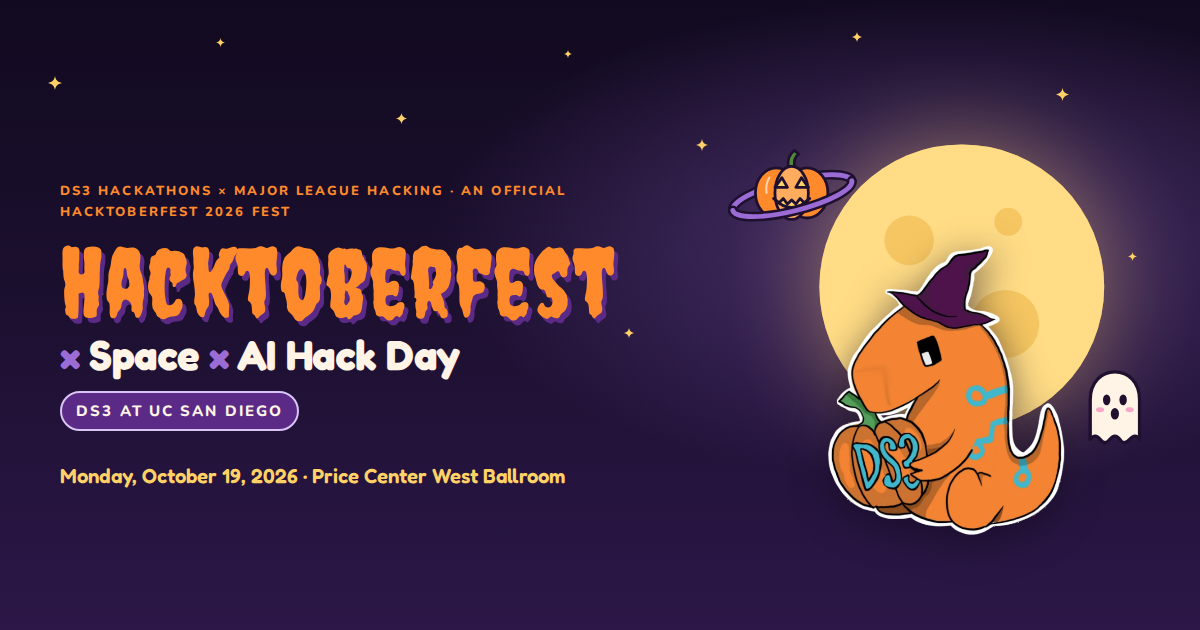
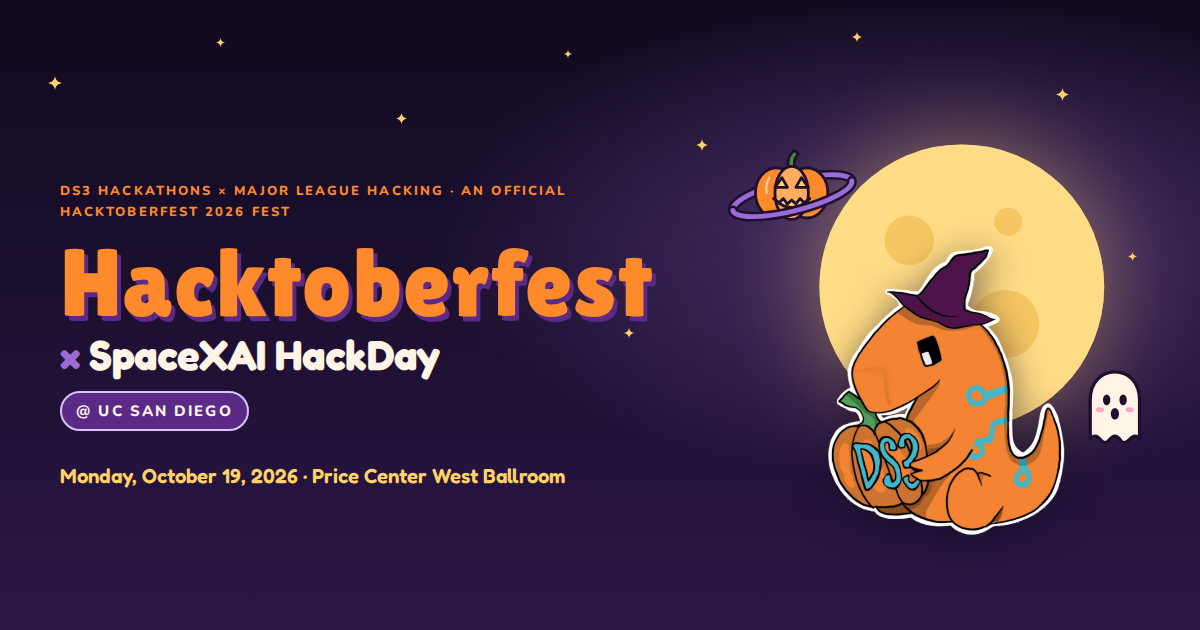
Rename to "Hacktoberfest × SpaceXAI HackDay @ UC San Diego"; swap display font
- EVENT.name / nameHost now read "Hacktoberfest × SpaceXAI HackDay" and
  "@ UC San Diego"; hero, top bar, footer, marquee, about, FAQ, title,
  meta tags, README and design prompts updated to match
- Replace the drippy Creepster display font with Lilita One (chunky,
  rounded) for the wordmark and big headlines
- Regenerate og.png with the new name and font

Claude-Session: https://claude.ai/code/session_019BBGGiAQjhHKrbz4ZVZxox

Changed region(s): [[0.0308, 0.3921, 0.555, 0.5127], [0.0617, 0.5429, 0.4008, 0.6937]]

diff --git a/index.html b/index.html
@@ -3,18 +3,18 @@
   <head>
     <meta charset="UTF-8" />
     <meta name="viewport" content="width=device-width, initial-scale=1.0" />
-    <title>Hacktoberfest × Space × AI Hack Day · DS3 at UC San Diego · Oct 19</title>
+    <title>Hacktoberfest × SpaceXAI HackDay @ UC San Diego · Oct 19</title>
     <meta
       name="description"
-      content="Hacktoberfest × Space × AI Hack Day, DS3 at UC San Diego: a free, one-day open-source AI hackathon and official Hacktoberfest 2026 Fest, brought to you by DS3 Hackathons with Major League Hacking. Monday, October 19, Price Center West Ballroom."
+      content="Hacktoberfest × SpaceXAI HackDay @ UC San Diego: a free, one-day open-source AI hackathon and official Hacktoberfest 2026 Fest, brought to you by DS3 Hackathons with Major League Hacking. Monday, October 19, Price Center West Ballroom."
     />
-    <meta property="og:title" content="Hacktoberfest × Space × AI Hack Day · DS3 at UC San Diego" />
+    <meta property="og:title" content="Hacktoberfest × SpaceXAI HackDay @ UC San Diego" />
     <meta
       property="og:description"
       content="AI belongs to everyone. Build with open-source AI on Oct 19 at the Price Center West Ballroom. Free, register on OrganizerHQ."
     />
     <meta property="og:type" content="website" />
-    <meta property="og:site_name" content="Hacktoberfest × Space × AI Hack Day" />
+    <meta property="og:site_name" content="Hacktoberfest × SpaceXAI HackDay" />
     <meta property="og:url" content="https://mohakprakash.com/hacktoberfest-website/" />
     <link rel="canonical" href="https://mohakprakash.com/hacktoberfest-website/" />
     <meta property="og:image" content="https://mohakprakash.com/hacktoberfest-website/og.png" />
@@ -23,10 +23,10 @@
     <meta property="og:image:height" content="630" />
     <meta
       property="og:image:alt"
-      content="Hacktoberfest × Space × AI Hack Day, DS3 at UC San Diego, on a night-purple sky with a moon and DS3's dino mascot: Monday Oct 19, Price Center West Ballroom"
+      content="Hacktoberfest × SpaceXAI HackDay @ UC San Diego, on a night-purple sky with a moon and DS3's dino mascot: Monday Oct 19, Price Center West Ballroom"
     />
     <meta name="twitter:card" content="summary_large_image" />
-    <meta name="twitter:title" content="Hacktoberfest × Space × AI Hack Day · DS3 at UC San Diego" />
+    <meta name="twitter:title" content="Hacktoberfest × SpaceXAI HackDay @ UC San Diego" />
     <meta name="twitter:image" content="https://mohakprakash.com/hacktoberfest-website/og.png" />
     <meta name="theme-color" content="#1b0f2e" />
     <link rel="icon" href="./favicon.svg" type="image/svg+xml" />
@@ -35,7 +35,7 @@
     <link rel="preconnect" href="https://fonts.gstatic.com" crossorigin />
     <link
       rel="stylesheet"
-      href="https://fonts.googleapis.com/css2?family=Creepster&family=Fredoka:wght@500;600;700&family=Nunito:wght@500;700;800&display=swap"
+      href="https://fonts.googleapis.com/css2?family=Lilita+One&family=Fredoka:wght@500;600;700&family=Nunito:wght@500;700;800&display=swap"
     />
     <style>
       html { scroll-behavior: smooth; }
@@ -48,7 +48,7 @@
   <body>
     <noscript>
       <div style="max-width:40rem;margin:0 auto;padding:48px 16px;font:16px/1.5 system-ui,sans-serif;color:#fff4e6">
-        <h1 style="margin:0 0 12px">Hacktoberfest × Space × AI Hack Day · DS3 at UC San Diego</h1>
+        <h1 style="margin:0 0 12px">Hacktoberfest × SpaceXAI HackDay @ UC San Diego</h1>
         <p>A free, one-day open-source AI hackathon brought to you by DS3 Hackathons with Major League Hacking.
         Monday, October 19, 2026 · Price Center West Ballroom, UC San Diego.</p>
         <p>This page needs JavaScript to show the full schedule and registration details.</p>

diff --git a/src/pop.css b/src/pop.css
@@ -1,5 +1,5 @@
 /* ==========================================================================
-   SPOOKY POP — Halloween theme for Hacktoberfest × Space × AI Hack Day
+   SPOOKY POP — Halloween theme for Hacktoberfest × SpaceXAI HackDay
    Night-purple and pumpkin-orange bands, wax drips between them, rounded
    hand-drawn "sticker" shapes with thick ink outlines to match DS3's dino.
    Every selector is scoped under .pop-root.
@@ -22,7 +22,7 @@
   --ink: #1f1030;
 
   /* type */
-  --display: "Creepster", "Fredoka", cursive;
+  --display: "Lilita One", "Fredoka", sans-serif;
   --round: "Fredoka", "Nunito", ui-rounded, sans-serif;
 
   /* per-band colours; light defaults, dark bands override */

diff --git a/src/sections/Hero.tsx b/src/sections/Hero.tsx
@@ -45,8 +45,7 @@ export default function Hero() {
             <h1 className="pop-hero-type">
               <span className="pop-hero-lg">Hacktoberfest</span>{" "}
               <span className="pop-hero-md">
-                <span className="pop-hero-x">×</span> Space <span className="pop-hero-x">×</span> AI
-                Hack&nbsp;Day
+                <span className="pop-hero-x">×</span> SpaceXAI HackDay
               </span>{" "}
               <span className="pop-hero-host">{EVENT.nameHost}</span>
             </h1>

diff --git a/src/event.ts b/src/event.ts
@@ -5,9 +5,9 @@
 
 export const EVENT = {
   /** The event's full name, as it should read everywhere. */
-  name: "Hacktoberfest × Space × AI Hack Day",
-  /** Who's hosting, where; shown right after the name. */
-  nameHost: "DS3 at UC San Diego",
+  name: "Hacktoberfest × SpaceXAI HackDay",
+  /** Where; shown right after the name. */
+  nameHost: "@ UC San Diego",
   /** Who puts the event on. */
   host: "DS3 Hackathons",
   hostLong: "the Hackathons team at DS3",

diff --git a/src/sections/Marquee.tsx b/src/sections/Marquee.tsx
@@ -42,7 +42,7 @@ export default function Marquee() {
       onMouseLeave={() => setHover(false)}
     >
       <p className="pop-sr">
-        {EVENT.name}, {EVENT.nameHost} — Monday October 19 — Price Center West Ballroom — AI
+        {EVENT.name} {EVENT.nameHost} — Monday October 19 — Price Center West Ballroom — AI
         belongs to everyone — build with open-source AI — free to attend — register on
         OrganizerHQ.
       </p>

diff --git a/src/sections/Faq.tsx b/src/sections/Faq.tsx
@@ -18,8 +18,7 @@ const QA: Array<[string, React.ReactNode]> = [
   [
     `What's the ${EVENT.name}?`,
     <>
-      Our Hacktoberfest Fest: a one-day Hack Day run by DS3 at {EVENT.campus}, with a space and
-      Halloween twist. The challenge tracks are all about open-source AI.
+      Our Hacktoberfest Fest: a one-day Hack Day run by DS3 at {EVENT.campus}. The challenge tracks are all about open-source AI.
     </>,
   ],
   [

diff --git a/src/sections/TopBar.tsx b/src/sections/TopBar.tsx
@@ -20,7 +20,7 @@ export default function TopBar() {
       </a>
       <div className="pop-bar-in">
         <a className="pop-bar-mark" href="#top">
-          HACKTOBERFEST <span>× SPACE × AI · DS3</span>
+          HACKTOBERFEST <span>× SPACEXAI HACKDAY</span>
         </a>
         <nav className="pop-bar-nav" aria-label="Sections">
           {LINKS.map(([label, href]) => (

diff --git a/src/art/Spooky.tsx b/src/art/Spooky.tsx
@@ -71,7 +71,7 @@ export function Pumpkin({ face = true, ...art }: Art & { face?: boolean }) {
   );
 }
 
-/** A jack-o'-lantern with a ring round it: the "space" in Space × AI. */
+/** A jack-o'-lantern with a ring round it: the "space" in SpaceXAI. */
 export function PumpkinPlanet(art: Art) {
   return (
     <svg {...svgProps("-40 -10 200 130", art)}>

diff --git a/src/sections/Footer.tsx b/src/sections/Footer.tsx
@@ -45,7 +45,7 @@ export default function Footer() {
             <p className="pop-foot-mark">
               Hacktoberfest
               <span className="pop-foot-sub">
-                × Space × AI Hack Day · {EVENT.nameHost}
+                × SpaceXAI HackDay {EVENT.nameHost}
               </span>
             </p>
           </Rise>

diff --git a/src/sections/About.tsx b/src/sections/About.tsx
@@ -3,7 +3,7 @@ import { EVENT } from "../event";
 import { Drift, Rise } from "../motion";
 
 const META: Array<[string, string]> = [
-  ["Event", `${EVENT.name}, ${EVENT.nameHost}`],
+  ["Event", `${EVENT.name} ${EVENT.nameHost}`],
   ["Format", `${EVENT.format}, in person`],
   ["Date", EVENT.dateLong],
   ["Time", EVENT.time],

diff --git a/docs/design-prompts.md b/docs/design-prompts.md
@@ -10,7 +10,7 @@ Paste this into a website/UI generator (v0, Lovable, Claude, etc.), and attach
 `public/mascot.png` if the tool takes images.
 
 ```text
-Design a one-page event website for "Hacktoberfest × Space × AI Hack Day — DS3 at UC San Diego".
+Design a one-page event website for "Hacktoberfest × SpaceXAI HackDay @ UC San Diego".
 Always write the event name out in full like that.
 
 EVENT FACTS
@@ -43,16 +43,16 @@ LOOK AND FEEL
   #3cc7d6 as a small accent (it matches the dino's circuit lines).
 - Alternate dark (night/plum/grape) and light (lavender/orange) full-width bands. Join
   bands with dripping candle-wax edges instead of straight lines.
-- Type: a drippy display face (e.g. Creepster) for only the "Hacktoberfest" wordmark and one
-  or two big headlines; a rounded bold sans (e.g. Fredoka) for headings; a friendly rounded
+- Type: a chunky rounded display face (e.g. Lilita One) for the "Hacktoberfest" wordmark and
+  one or two big headlines; a rounded bold sans (e.g. Fredoka) for headings; a friendly rounded
   body font (e.g. Nunito).
 - Cards and buttons are rounded "stickers": 3px outline, a large radius, and a hard offset
   shadow with no blur. Buttons are pill-shaped.
 - Spooky details, used sparingly: a big glowing moon behind the mascot, twinkling
   sparkles, a few bats flapping across the hero, a graveyard hill silhouette at the bottom
   of the hero, a spider dangling on a thread, cobwebs in card corners, floating ghosts,
-  candy corn as bullet or separator icons, and a jack-o'-lantern planet with a ring (the
-  "Space" part).
+  candy corn as bullet or separator icons, and a jack-o'-lantern planet with a ring (a nod to
+  SpaceXAI).
 - Track icons as magic objects: spellbook (agent skill), crystal ball (LLM), potion bottle
   (SLM), cauldron (model harness). Prizes shown as jack-o'-lantern candy buckets.
 - NO isometric or blocky 3D art, no hard rectangles, no realistic horror imagery.

diff --git a/README.md b/README.md
@@ -1,6 +1,6 @@
-# Hacktoberfest × Space × AI Hack Day · DS3 at UC San Diego
+# Hacktoberfest × SpaceXAI HackDay @ UC San Diego
 
-Event site for **Hacktoberfest × Space × AI Hack Day**, an official **Hacktoberfest 2026 Fest**
+Event site for **Hacktoberfest × SpaceXAI HackDay**, an official **Hacktoberfest 2026 Fest**
 (Hack Day format), brought to you by the
 Hackathons team at DS3 (Data Science Students Society @ UCSD) with Major League Hacking.
 Open to UC San Diego students, 18+.
@@ -11,7 +11,7 @@ Open to UC San Diego students, 18+.
 
 The design is a cute-spooky Halloween theme built to match DS3's dino sticker: night-purple and
 pumpkin-orange bands joined by wax drips, rounded "sticker" cards with thick ink outlines,
-Creepster / Fredoka / Nunito type, and hand-drawn SVG art (moon, bats, ghosts, pumpkins, a
+Lilita One / Fredoka / Nunito type, and hand-drawn SVG art (moon, bats, ghosts, pumpkins, a
 cauldron) in [`src/art/Spooky.tsx`](src/art/Spooky.tsx). Styles live in `src/pop.css`.
 
 The SVGs are placeholders. [`docs/design-prompts.md`](docs/design-prompts.md) has a whole-site
